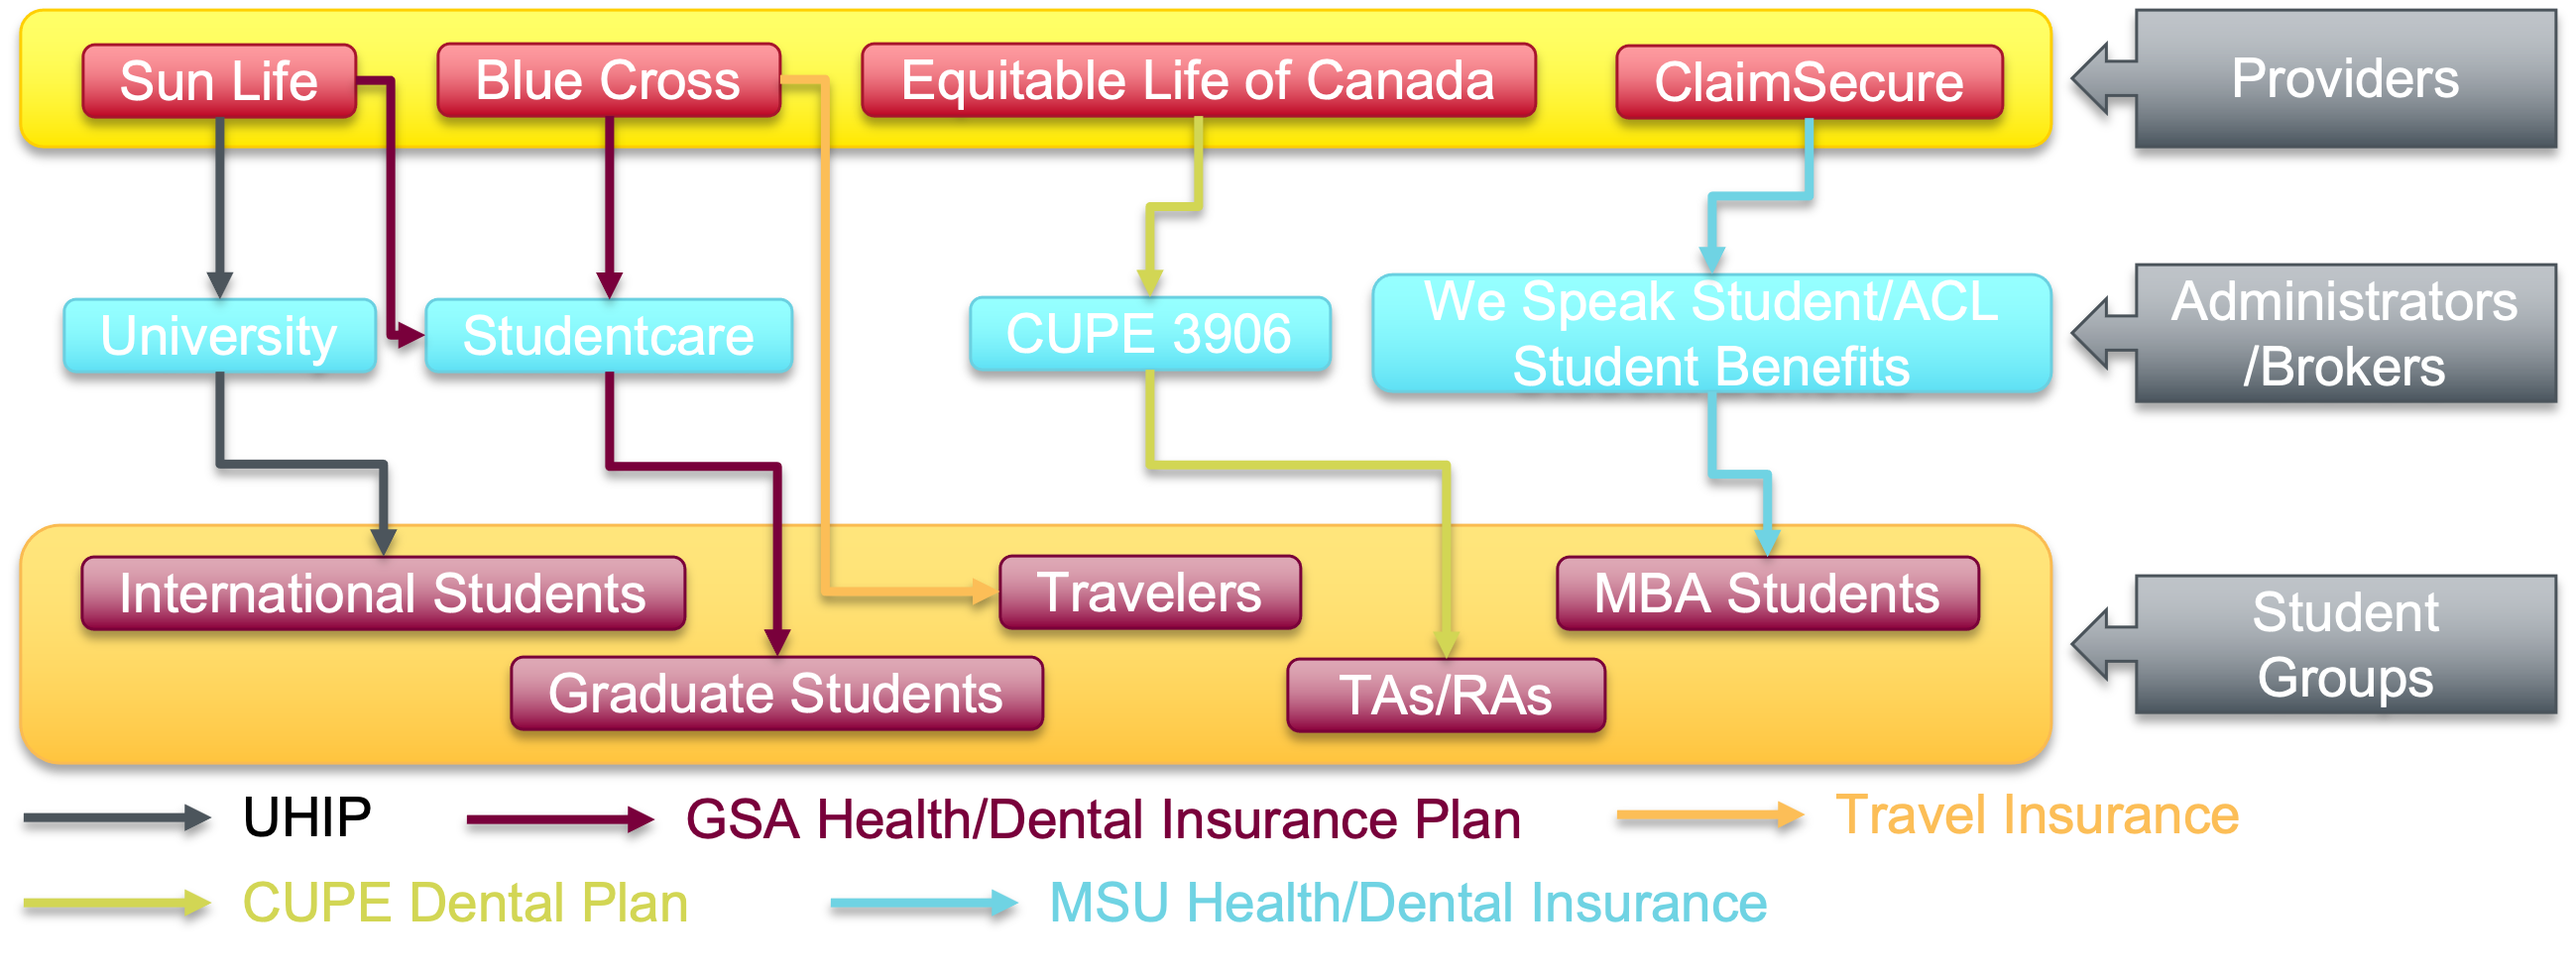
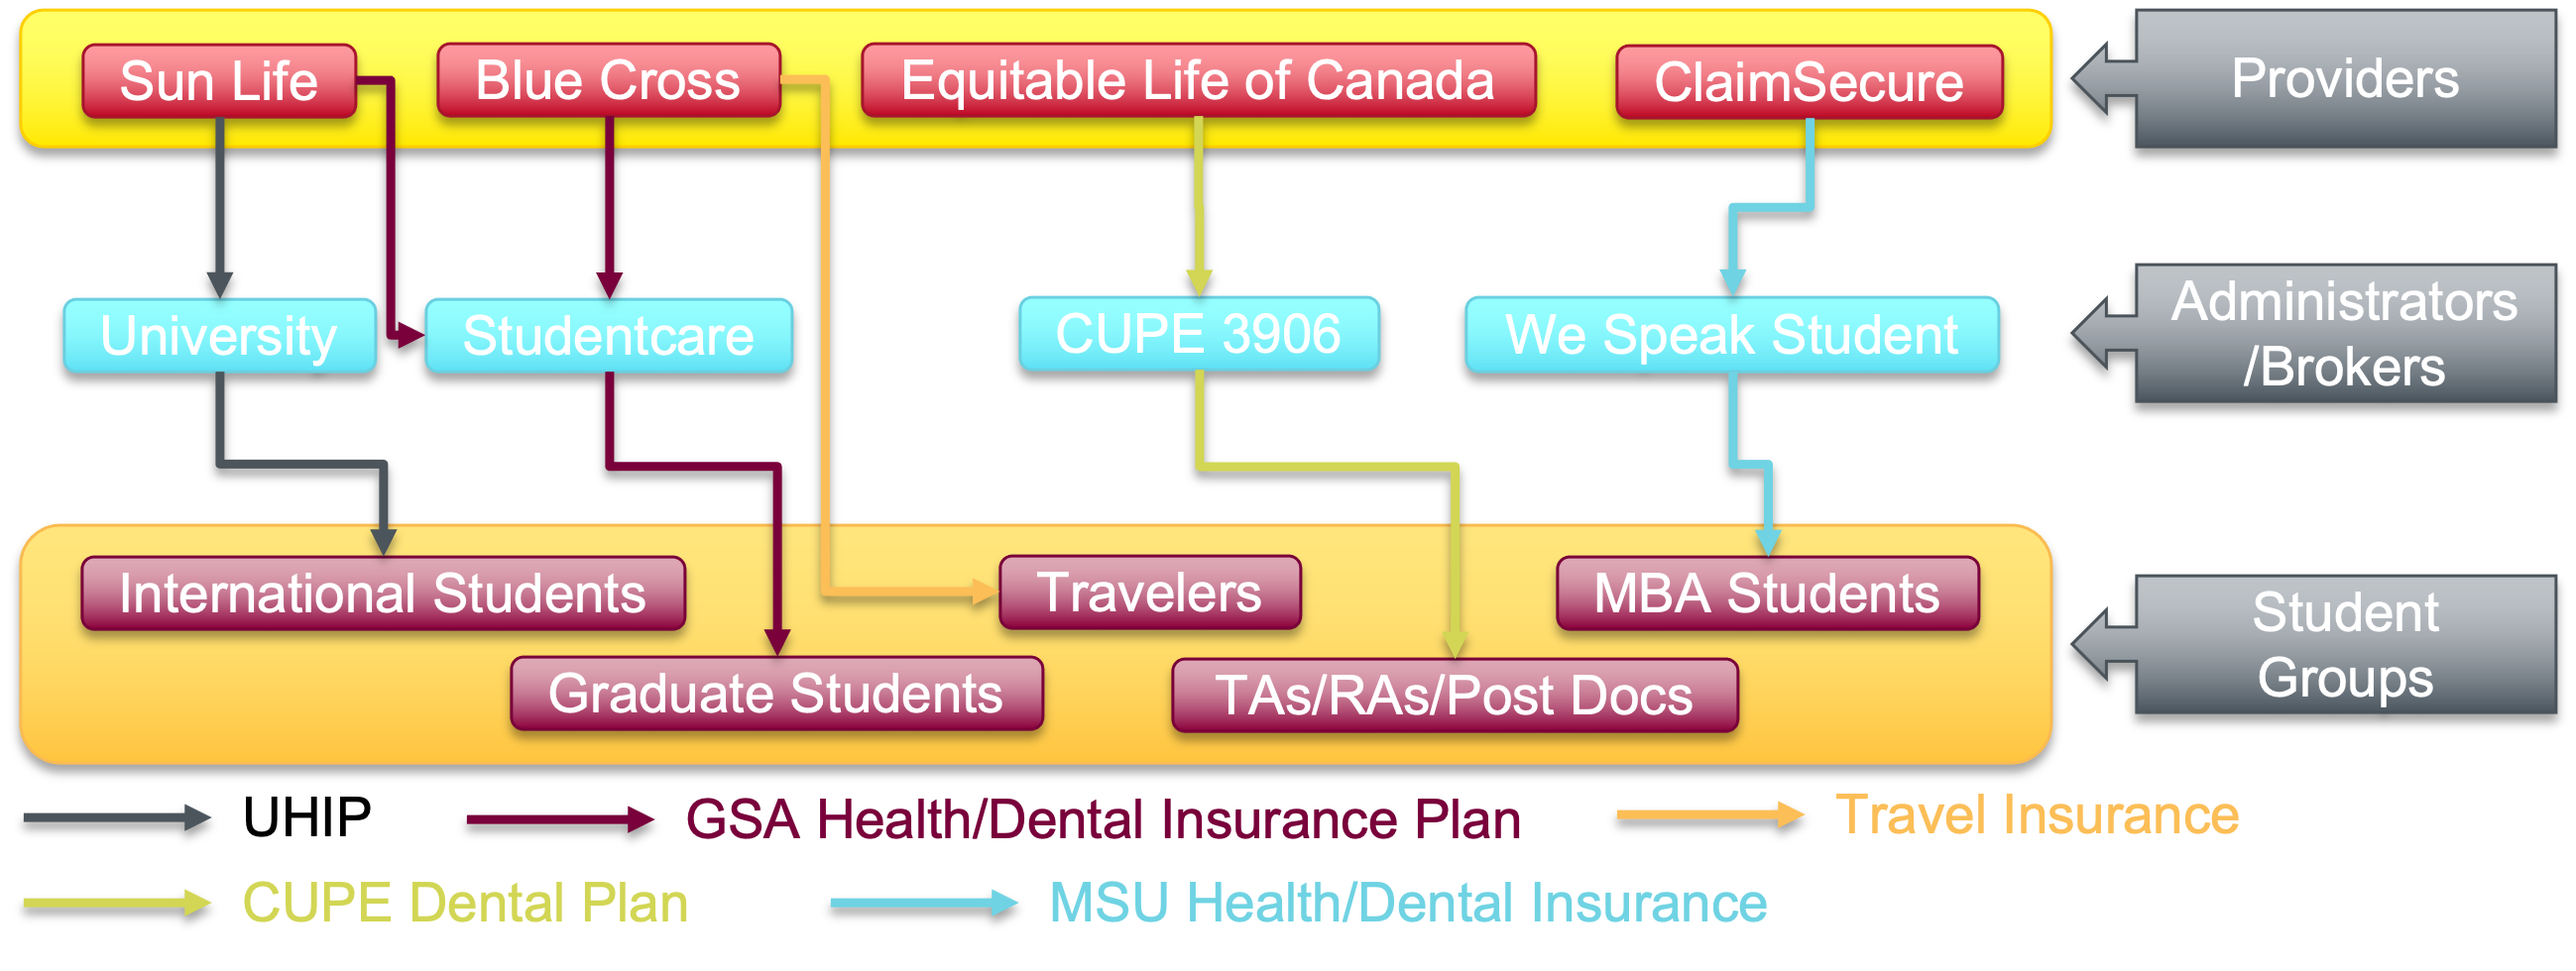
更新保险注释和图解

Changed region(s): [[0.3741, 0.1837, 0.8106, 0.5204], [0.4365, 0.4898, 0.6859, 0.7653]]

diff --git a/docs/KanBingYuBaoXian.rst b/docs/KanBingYuBaoXian.rst
@@ -6,12 +6,12 @@
    :align: center
    :width: 1000
 
-| 加拿大的医疗奉行“免费”医疗的政策。作为我们国际学生，依然可以享受不花钱或者花很少一部分钱去看病、治疗、买药的福利，但不代表没有人去支付相应的费用。通常，我们交的杂费里已经包含了各种保险的费用，则我们就医的各种费用就是由保险公司来承担。
+| 加拿大的医疗奉行“免费”医疗的政策。我们作为国际学生，依然可以享受不花钱或者花很少一部分钱去看病、治疗、买药的福利，但不代表没有人去支付相应的费用。通常，我们交的杂费里已经包含了各种保险的费用，则我们就医的各种费用就是由保险公司来承担。
 | 作为学生，我们不需要直接跟保险公司直接打交道，因为我们不熟悉有哪些保险公司，每家公司都有哪些保险产品，用于报销哪些花费，以及价格是否合理。而是相应的组织或团体已经提前谈好了相应的保险服务，我们直接按照杂费里列举的费用付费即可。
-| 根据上图所示，通常一个保险涉及3部分机构，分别是Providers、Brokers、Student groups。他们主要负责：
+| 根据上图所示，通常一个保险涉及3部分机构，分别是Providers、Administrators/Brokers、Student Groups。他们主要负责：
 
 - Providers：保险公司。众多保险公司提供了各式各样的保险服务。跟我们相关的保险公司主要有Sun Life（https://www.sunlife.ca/）、Blue Cross（http://www.bluecross.ca/en/index.html）、Equitable Life of Canada（https://www.equitable.ca/）、ClaimSecure（https://www.claimsecure.com/）。
-- Administrators/Brokers：管理员和经纪人。管理员指的是负责维护保险的组织，例如加拿大的各个大学、CUPE工会等等。经纪人则起到一个桥梁的作用，这有点像是房地产经纪人，各个卖家有房源但不知道客户在哪、应该面向哪些人打什么类型的广告，各个买家想买房但不知道有哪些房源、价格怎么样。保险经纪人也一样，他们把各个保险公司的相应保险服务组合在一起，然后推荐给不同的客户群体。客户们没有必要知道报销的时候应该去找哪些保险公司，只要统一发给经纪人，他们会把账单转交给相应的保险公司即可。跟我们相关的经纪人有Studentcare（https://www.studentcare.ca/）和We Speak Student/ACL Student Benefits（https://wespeakstudent.com/）。
+- Administrators/Brokers：管理员和经纪人。管理员指的是负责维护保险的组织，例如加拿大的各个大学、CUPE工会等等。经纪人则起到一个桥梁的作用，这有点像是房地产经纪人，各个卖家有房源但不知道客户在哪、应该面向哪些人打什么类型的广告，各个买家想买房但不知道有哪些房源、价格怎么样。保险经纪人也一样，他们把各个保险公司的相应保险服务组合在一起，然后推荐给不同的客户群体。客户们没有必要知道报销的时候应该去找哪些保险公司，只要统一发给经纪人，他们会把账单转交给相应的保险公司即可。跟我们相关的经纪人有Studentcare（https://www.studentcare.ca/）和We Speak Student（https://wespeakstudent.com/）。
 - Student Groups：学生团体。如果只有几个人去买保险，那保险费用一定会非常高，只有很多人一起买，这样每个人的价格才会便宜。所以，我们购买的保险都是作为一个团体统一买的。例如：国际学生、研究生、TA和RA和博士后、MBA学生等。
 
 医疗保险
@@ -24,7 +24,7 @@
 
 一、UHIP/OHIP
 
-- 国际学生参加的是UHIP（University Health Insurance Plan），而Canada本国学生（Permanent residence和Canada citizen）参加的是OHIP（Ontario Health Insurance Plan）。UHIP从刚来Canada入学的前一个月的10号开始生效。毕业后，可以因要等待参加毕业典礼或者论文答辩延长最多4个月。
+- 国际学生参加的是UHIP（University Health Insurance Plan），而Canada本地学生（Permanent residence和Canada citizen）参加的是OHIP（Ontario Health Insurance Plan）。UHIP从刚来Canada入学的前一个月的10号开始生效。毕业后，可以因要等待参加毕业典礼或者论文答辩延长最多4个月。
 - 官网：https://uhip.ca/
 - 费用（2021年）：国际学生需要付费参加UHIP，近几年的年费是单人$756，学生家属的费用和学生一样。
 - 学校的UHIP由Sun Life承保，从2017年开始学校会把UHIP coverage card（医保卡）通过邮件的方式发给大家，如果没收到可以自行上Sun Life网站打印UHIP coverage card。教程：http://uhip.ca/Enrollment/CoverageCard 。建议大家把打印出来的coverage card和自己的护照或驾照放一起。平时随身携带，以防万一。
@@ -110,6 +110,9 @@
 - 配眼镜福利：每2年有$100报销镜片和镜框的额度。
 - MBA学生家属的保险：https://msumcmaster.ca/info/health-dental-insurance/family-add-ons/
 
+.. note::
+  除了UHIP/OHIP涉及到看病的保险外，其它保险都是没有单独的coverage card的。像买药、牙医等等的服务，一般只要报给诊所自己的Group Number/Policy Number、Member ID，诊所就可以直接访问到自己的保险。如果诊所访问不到，则要自己支付全部的费用，然后报销。
+
 保险的购买与退出
 --------------------------------------------------------------------------
 1. 购买（enroll）：所有学生必须（mandatory）参加医疗保险，学校在收杂费的时候会自动扣去相关的费用。具体需要购买的保险如下：
@@ -142,9 +145,8 @@
   - Extended Health（药费等，学校付钱）
   - Group Life（生命安全保险，学校付钱）
 
-注：
-
-- 五月份入学的学生虽然自动会有UHIP，但不会自动购买GSA Health/Dental Insurance Plan。这就需要新生自己Self Enrolment。详情：http://studentcare.ca/rte/en/McMasterUniversity_ChangeofCoverage_SelfEnrolment
+.. note::
+  五月份入学的学生虽然自动会有UHIP，但不会自动购买GSA Health/Dental Insurance Plan。这就需要新生自己Self Enrolment。详情：http://studentcare.ca/rte/en/McMasterUniversity_ChangeofCoverage_SelfEnrolment
 
 2. 退出（opt out）：学校的保险都是强制购买的，如果想退出只能是在其它地方已经购买了相同的保险或者变更了移民身份。常见情形仅有如下：
 
@@ -193,16 +195,15 @@
   - Urgent Care Centre事实上是一种特殊的Walk-in Clinic。通常Walk-in Clinic会按先来后到的顺序接诊，但Urgent Care Centre是按病情的严重程度的顺序接诊。因为它主要优先解决的是紧急出现的病症，这类病症不会立即威胁生命，但也没有时间去预约医生或者在Walk-in Clinic里排队了。例如：食品中毒、眼睛受伤、骨折、轻度烧伤等等。事实上，这和Emergency Departments并没有很清晰的界限。如果大家病情不是很严重，依然去了Urgent Care Centre，那么你会发现有很多后来的病人会被排到你的前面，而你会等待非常长的时间。在麦马学校附近，能接诊Urgent Care Centre的是Main Street West Urgent Care Centre（不是24h营业），地址是690 Main St W。大家真的遇到了紧急病症不用特别区分是否归为Urgent，直接打911让救护车来接就可以了。
 
 .. note::
-   - 如果大家半夜突然发烧或者不适，那只能去Hospital看。因为只有他们才有24小时营业的Emergency Department。离麦马比较近的Hospital是St Joseph's Healthcare Hamilton - Charlton Campus - Emergency Department，地址是50 Charlton Ave E, Hamilton, ON  L8N 4A6。
-   - 如果病情非常紧急严重，应该直接打911让救护车来接，911会自动送到等待时间最短的医院。如果打算自己去医院的话（推荐坐出租车去），一定要先查看一下各个医院的Emergency或Urgent Care Centre的等待时间：https://www.hamiltonemergencywaittimes.ca/ 。通常St. Joseph’s Healthcare的等待时间是最短的。
+  - 如果大家半夜突然发烧或者不适，那只能去Hospital看。因为只有他们才有24小时营业的Emergency Department。离麦马比较近的Hospital是St Joseph's Healthcare Hamilton - Charlton Campus - Emergency Department，地址是50 Charlton Ave E, Hamilton, ON  L8N 4A6。
+  - 如果病情非常紧急严重，应该直接打911让救护车来接，911会自动送到等待时间最短的医院。如果打算自己去医院的话（推荐坐出租车去），一定要先查看一下各个医院的Emergency或Urgent Care Centre的等待时间：https://www.hamiltonemergencywaittimes.ca/ 。通常St. Joseph’s Healthcare的等待时间是最短的。
 
 3. 校外的牙医、眼医诊所、保健理疗医生
 
   A. GSA Insurance Plan指定的牙医、眼医诊所、保健理疗医生：
   
-  - 打开网页：http://studentcare.ca/View.aspx?locale=en&uid=McMasterUniversity_Dental_Test2&random=538 。请在网页右上角“STUDENTCARE NETWORKS Find a Professional ”标题下的下拉列表里选择“Dental”或“Vision”。
-  - GSA Dental Insurance Plan指定的牙医诊所叫“Studentcare Dental Network member”。对于一般的诊所，GSA Dental Insurance Plan只能报销70%，而指定的牙医诊所可以再多报销20%~30%。这样在指定的牙医诊所里就可以报销90%~100%的就诊费用。
-  - 一般不管去任何诊所都需要打电话先预约。在预约的时候，再次寻问他们是不是支持GSA的保险。在上面网页里右边一栏找到Group Number (Health & Dental)，和自己的学号一起报给他们，让他们检查一下自己要做的具体项目是不是支持，并且还剩余多少额度。
+  - 以看牙为例，打开网页：http://studentcare.ca/View.aspx?locale=en&uid=McMasterUniversity_Dental_Test2&random=538 。请在网页右上角“STUDENTCARE NETWORKS Find a Professional ”标题下的下拉列表里选择“Dental”。GSA Dental Insurance Plan指定的牙医诊所叫“Studentcare Dental Network member”。对于一般的诊所，GSA Dental Insurance Plan只能报销70%，而指定的牙医诊所可以再多报销20%~30%。这样在指定的牙医诊所里就可以报销90%~100%的就诊费用。
+  - 一般不管去任何诊所都需要打电话先预约。在预约的时候，再次寻问他们是不是支持GSA的保险。在上面网页里右边一栏找到Group Number (Health, Dental, and Vision)，和自己的学号一起报给他们，让他们检查一下自己要做的具体项目是不是可以用保险报销，并且还剩余多少额度。
 
   .. image:: /resource/Insurance/dental_location.png
     :align: center
@@ -214,19 +215,18 @@
 
   C. CUPE指定的牙医诊所：
   
-  - 寻找、预约医生：https://www.opencare.com/ 。用这个链接预约用牙医会有$50返现：https://www.opencare.com/invite/wz439413 。等看完牙医拿到receipt并上传就可以拿到$50的返现优惠。
+  - 寻找、预约医生：https://www.opencare.com/ 。用这个链接预约牙医会有$50返现：https://www.opencare.com/invite/wz439413 ，等看完牙医拿到receipt并上传就可以拿到返现的Prepaid Visa Gift Card。
   - 输入邮编后，点击“Get Start”，按照提示一步一步选择。其中有一步选提供保险的公司页面，这里选Other，然后找“Equitable Life of Canada”。此外，不一定所有的诊所都能通过上述方法列举出来，原因可能是通过问卷过滤了一部分诊所。例如学校周边有一家大家评价普遍比较好的“Westdale Dentistry”，通过opencare就很难搜索到。
   - 按CUPE官网的介绍，所有的诊所都可以用CUPE的保险报销100%。但部分服务，如洗牙，每年有次数限制；总的报销额度也不能超过$1000。大家在就诊之前一定要问清楚是否支持用CUPE的保险，以及在付款之前再次确认剩余的额度是否还可以报销。
 
-注：
+.. note::
+  - MBA、Post doc、访问学者是不能去学校Student Wellness Centre看病的，只能去校外Walk-in Clinic看。https://wellness.mcmaster.ca/contact-us/
+  - 去诊所看病，请带上UHIP医保卡和Group Number，看病过程中可能需要用到。
 
-- MBA、Post doc、访问学者是不能去学校Student Wellness Centre看病的，只能去校外Walk-in Clinic看。https://wellness.mcmaster.ca/contact-us/
-- 去诊所看病，请带上UHIP医保卡和Group Number，看病过程中可能需要用到。
-
-  - 非MBA学生可以在GSA Insurance Plan的官网主页里找到。
-  - MBA学生在MSU Health/Dental Plan Insurance的主页，找到“HEALTH INSURANCE”或“DENTAL INSURANCE”，点开链接后有"CLAIM FORM"，然后新打开的页面就可以找到。
-- 如果是看病的话，建议大家去支持direct billing的诊所。因为可以省去报销流程，诊所会直接找保险公司报销相应的费用。例如学校及其周边的三家诊所：McMaster Student Wellness Centre、Dundurn Medical Center、Main St West Walk-in Clinic等等。
-- 有部分牙医诊所也支持direct billing，比如CUPE的牙医保险推荐一家市区的诊所Smile Design Dental Care等等。大家在去之前可以打电话或者其它方式询问是否支持direct billing。如果支持，可以在去之前带上CUPE牙医保险的个人信息，请查看这个网页下面的“报销”->“CUPE Dental Plan”->“方法1”。
+    - 非MBA学生可以在GSA Insurance Plan的官网主页里找到。
+    - MBA学生在MSU Health/Dental Plan Insurance的主页，找到“HEALTH INSURANCE”或“DENTAL INSURANCE”，点开链接后有"CLAIM FORM"，然后新打开的页面就可以找到。
+  - 如果是看病的话，建议大家去支持direct billing的诊所。因为可以省去报销流程，诊所会直接找保险公司报销相应的费用。例如学校及其周边的三家诊所：McMaster Student Wellness Centre、Dundurn Medical Center、Main St West Walk-in Clinic等等。
+  - 有部分牙医诊所也支持direct billing，比如CUPE的牙医保险推荐一家市区的诊所Smile Design Dental Care等等。大家在去之前可以打电话或者其它方式询问是否支持direct billing。如果支持，可以在去之前带上CUPE牙医保险的个人信息，请查看这个网页下面的“报销”->“CUPE Dental Plan”->“方法1”。
 
 买药
 -----------------------------------
@@ -262,10 +262,9 @@
   - iOS：https://itunes.apple.com/ca/app/pharmasave-drugs/id608514849?mt=8
   - Android：https://play.google.com/store/apps/details?id=com.pharmasaves.android
 
-注：
-
-- 由于Canada对药品管制十分严格，绝大多数药品都需要处方才能购买，尤其像国内常见的OTC感冒药和消炎药在这里全都需要处方。药店只能自由购买营养品和保健品。此外，经验证腹泻（Diarrhea）药、退烧药（例如：Tylenol泰诺）也是可以自由购买的。
-- 建议大家去支持pay direct card的药房买药，因为可以省去报销流程，药房会直接找保险公司报销相应的费用。例如McMaster University Centre Pharmasave、Rexall等。pay direct card可以在studentcare手机App里找到，也可以在网页上打印出来：http://studentcare.ca/rte/en/McMasterUniversity_DownloadCentre_PayDirectCard
+.. note::
+  - 由于Canada对药品管制十分严格，绝大多数药品都需要处方才能购买，尤其像国内常见的OTC感冒药和消炎药在这里全都需要处方。药店只能自由购买营养品和保健品。此外，经验证腹泻（Diarrhea）药、退烧药（例如：Tylenol泰诺）也是可以自由购买的。
+  - 建议大家去支持pay direct card的药房买药，因为可以省去报销流程，药房会直接找保险公司报销相应的费用。例如McMaster University Centre Pharmasave、Rexall等。pay direct card可以在studentcare手机App里找到，也可以在网页上打印出来：http://studentcare.ca/rte/en/McMasterUniversity_DownloadCentre_PayDirectCard
 
 报销
 -------------------------------------------------
